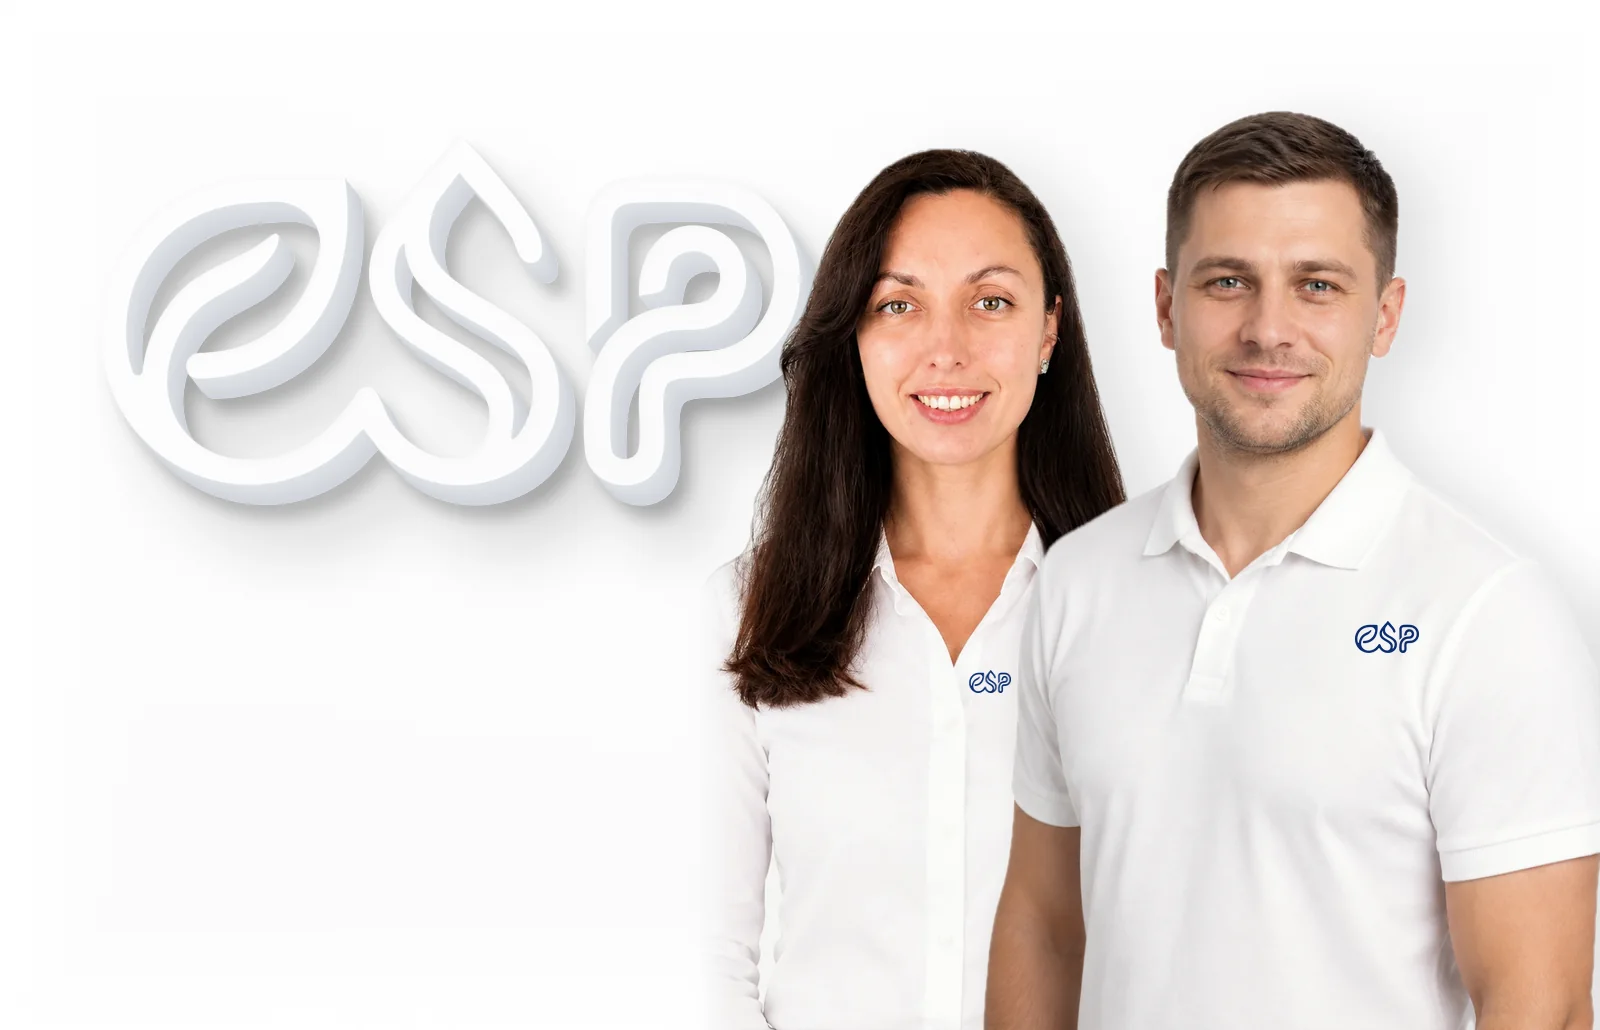
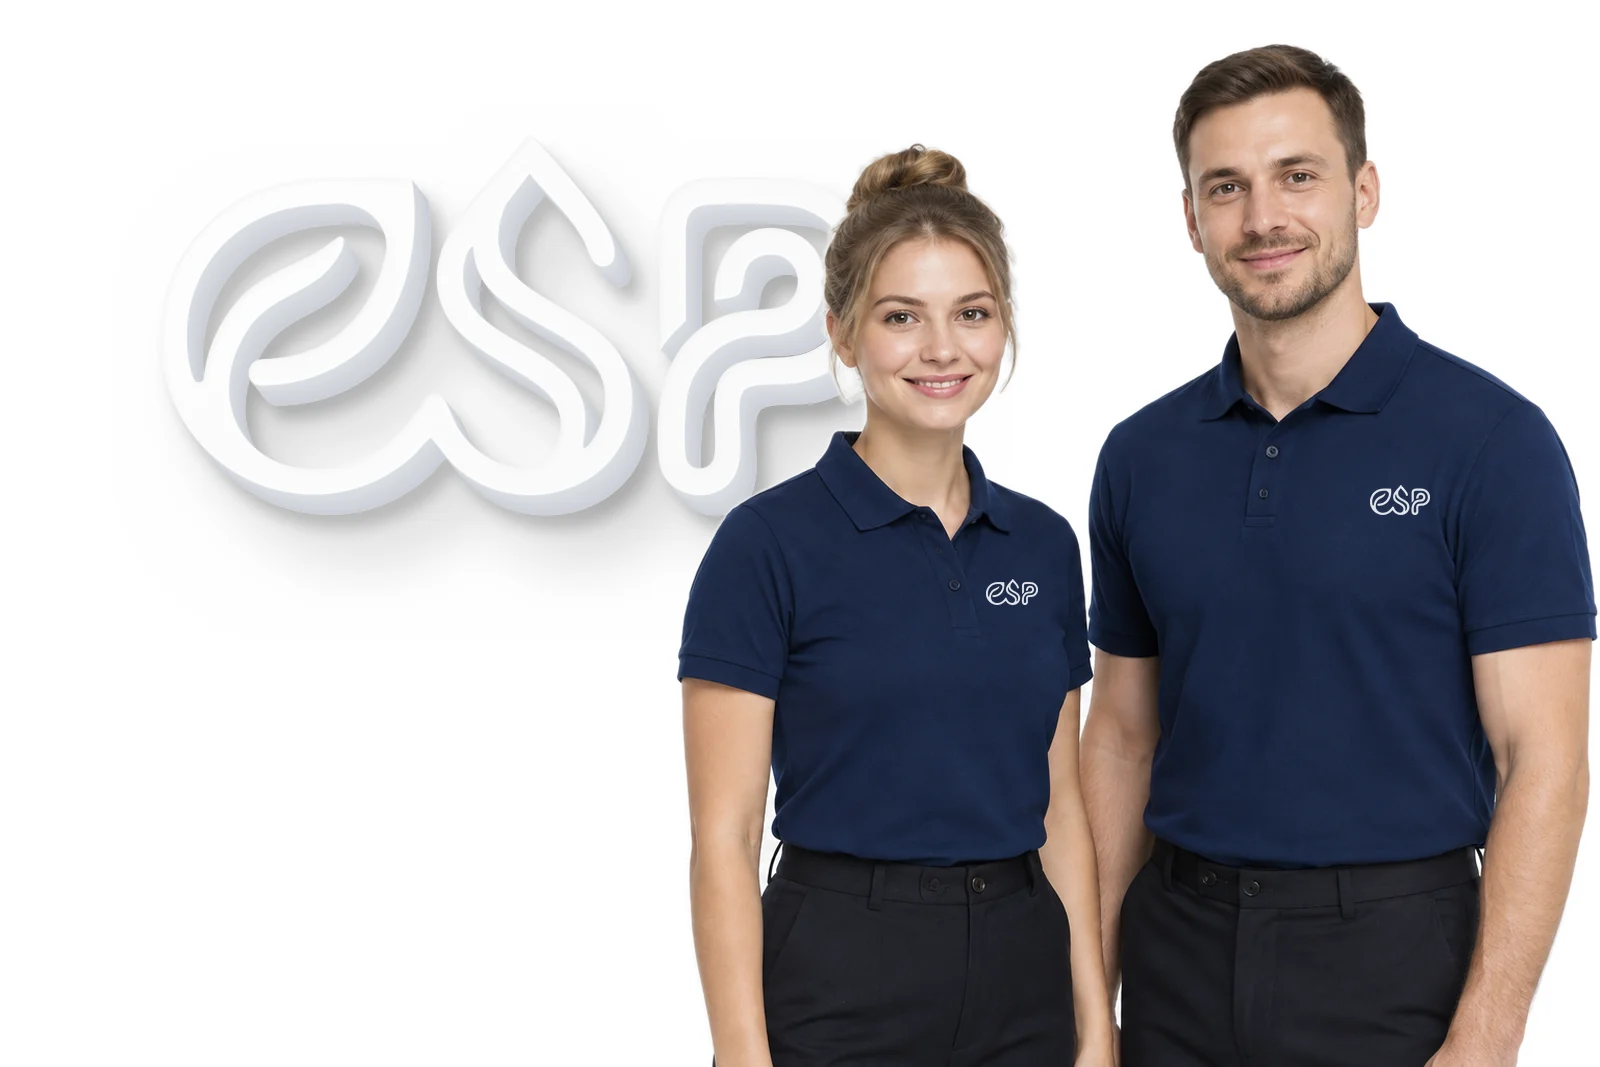
CTA: кадр 1:1 как у DJI — двое сотрудников в синих поло ESP перед объёмной вывеской ESP

diff --git a/components/apple/Cta.vue b/components/apple/Cta.vue
@@ -17,7 +17,7 @@
       </div>
       <figure class="ct-person dj-reveal" aria-hidden="true">
         <div class="ct-ph">
-        <img src="/images/people/esp-team.webp?v=2" alt="" loading="lazy" decoding="async" width="1600" height="1030" />
+        <img src="/images/people/esp-team.webp?v=3" alt="" loading="lazy" decoding="async" width="1600" height="1067" />
         </div>
       </figure>
     </div>
